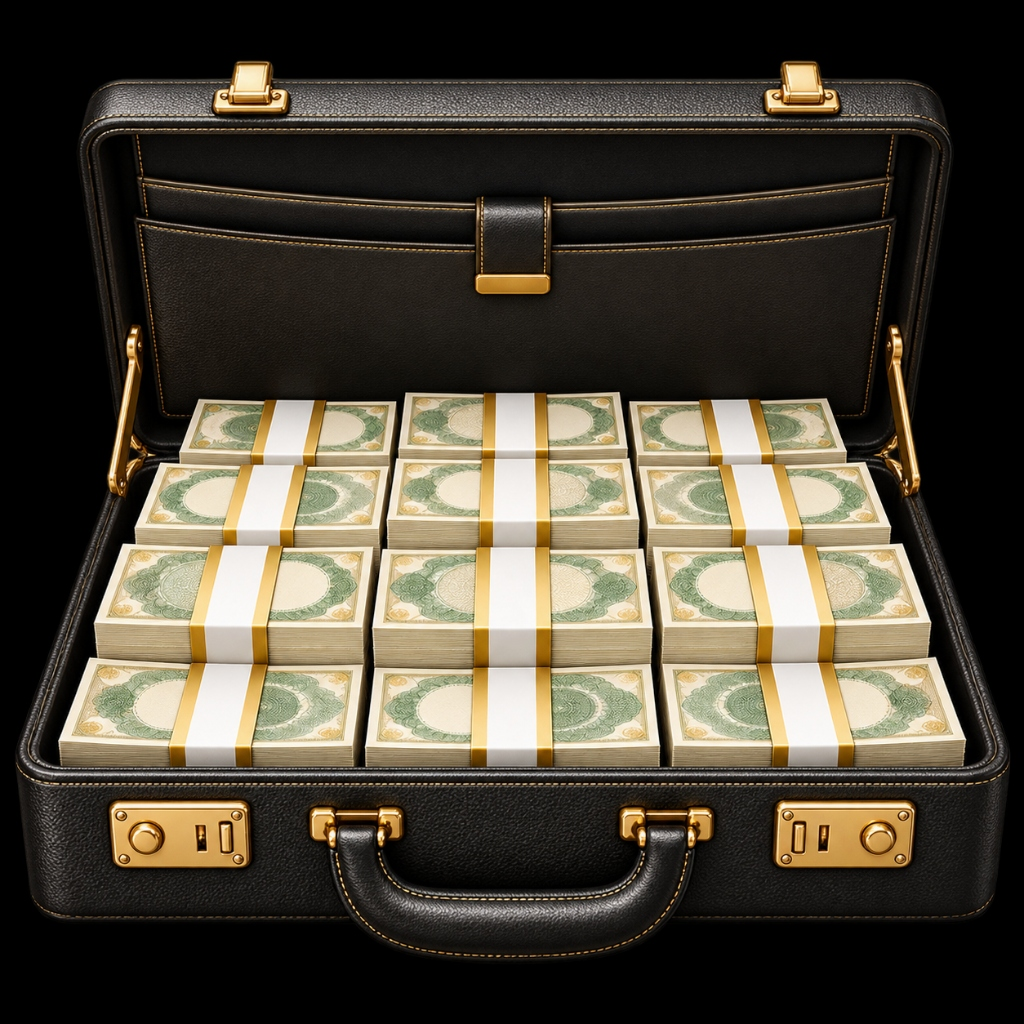
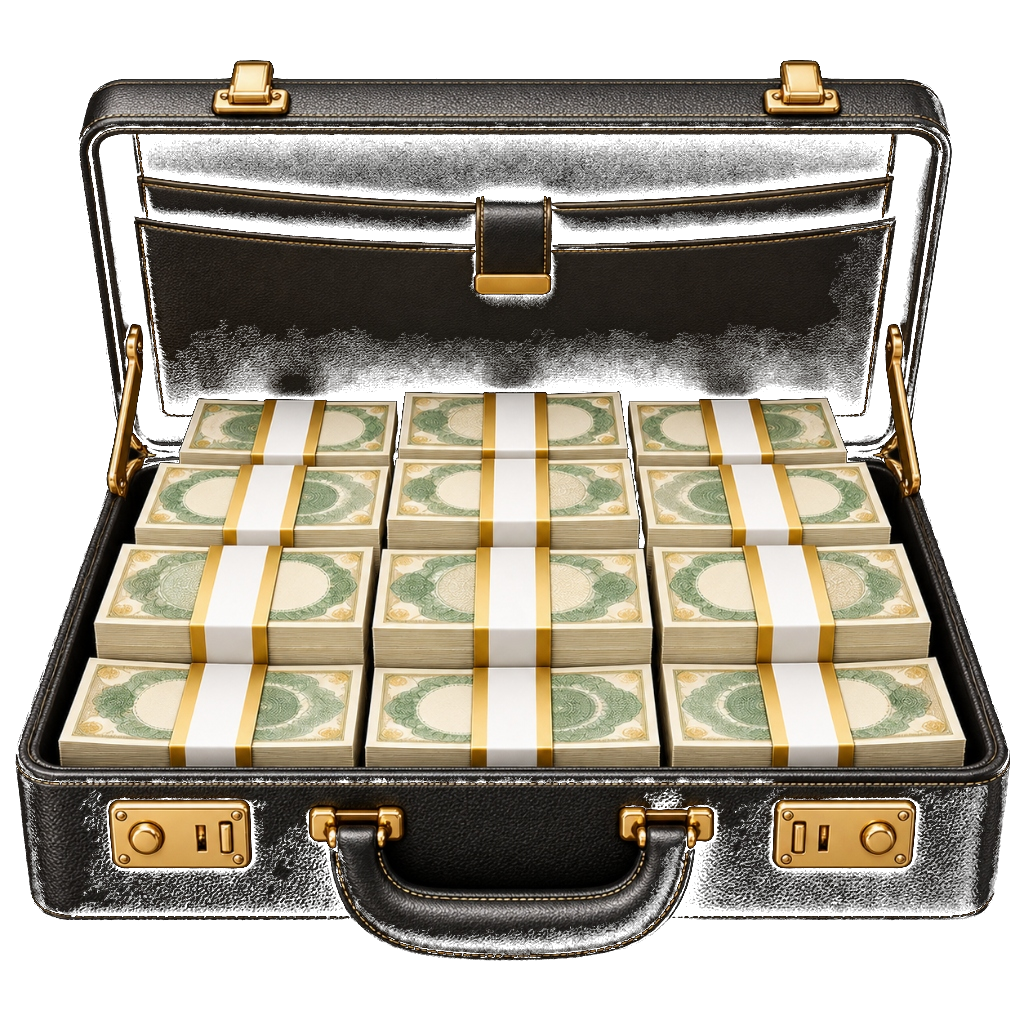
fix(spray-options): eliminate black background from spray cash asset PNGs and render transparent floating 3D items

diff --git a/lib/view/special_features/spray_cash/screens/spray_options_screen.dart b/lib/view/special_features/spray_cash/screens/spray_options_screen.dart
@@ -383,11 +383,15 @@ class _SprayOptionCard extends StatelessWidget {
 
   @override
   Widget build(BuildContext context) {
-    final cardBg = isDark ? const Color(0xFF221D17) : Colors.white;
+    final cardBg = isSelected
+        ? const Color(0xFFB57510).withValues(alpha: isDark ? 0.16 : 0.08)
+        : (isDark
+            ? Colors.white.withValues(alpha: 0.035)
+            : Colors.white);
     final borderColor = isSelected
         ? const Color(0xFFB57510)
         : (isDark
-            ? Colors.white.withValues(alpha: 0.07)
+            ? Colors.white.withValues(alpha: 0.08)
             : const Color(0xFFE8E0D2));
     final catColor = _categoryBadgeColor(item.category);
 
@@ -406,9 +410,9 @@ class _SprayOptionCard extends StatelessWidget {
           boxShadow: [
             BoxShadow(
               color: isSelected
-                  ? const Color(0xFFB57510).withValues(alpha: 0.3)
-                  : Colors.black.withValues(alpha: isDark ? 0.3 : 0.04),
-              blurRadius: isSelected ? 12 : 6,
+                  ? const Color(0xFFB57510).withValues(alpha: 0.25)
+                  : Colors.black.withValues(alpha: isDark ? 0.2 : 0.03),
+              blurRadius: isSelected ? 14 : 6,
               offset: const Offset(0, 3),
             ),
           ],
@@ -454,15 +458,17 @@ class _SprayOptionCard extends StatelessWidget {
               ],
             ),
 
+            // Floating 3D Cash Asset with generous size and transparent background
             Expanded(
               child: Center(
                 child: Padding(
                   padding: const EdgeInsets.symmetric(vertical: 4),
                   child: Image.asset(
                     item.image,
-                    height: 88,
-                    width: 88,
+                    height: 94,
+                    width: 94,
                     fit: BoxFit.contain,
+                    filterQuality: FilterQuality.high,
                     errorBuilder: (context, error, stackTrace) => const Icon(
                       Icons.payments_rounded,
                       size: 50,

diff --git a/lib/view/special_features/spray_cash/widgets/spray_selection_sheet.dart b/lib/view/special_features/spray_cash/widgets/spray_selection_sheet.dart
@@ -176,12 +176,16 @@ class _SprayItemCard extends StatelessWidget {
 
   @override
   Widget build(BuildContext context) {
-    final cardBg = isDark
-        ? const Color(0xFF231E18)
-        : const Color(0xFFF3F4F6);
+    final cardBg = isSelected
+        ? const Color(0xFFC87D0E).withValues(alpha: isDark ? 0.16 : 0.08)
+        : (isDark
+            ? Colors.white.withValues(alpha: 0.035)
+            : const Color(0xFFF9F5EC));
     final borderColor = isSelected
         ? const Color(0xFFC87D0E)
-        : Colors.transparent;
+        : (isDark
+            ? Colors.white.withValues(alpha: 0.08)
+            : const Color(0xFFE8E0D2));
 
     return GestureDetector(
       onTap: onTap,
@@ -191,7 +195,7 @@ class _SprayItemCard extends StatelessWidget {
         decoration: BoxDecoration(
           color: cardBg,
           borderRadius: BorderRadius.circular(20),
-          border: Border.all(color: borderColor, width: 2),
+          border: Border.all(color: borderColor, width: isSelected ? 2 : 1),
         ),
         child: Column(
           mainAxisAlignment: MainAxisAlignment.center,
@@ -201,6 +205,7 @@ class _SprayItemCard extends StatelessWidget {
                 child: Image.asset(
                   item.image,
                   fit: BoxFit.contain,
+                  filterQuality: FilterQuality.high,
                   errorBuilder: (context, error, stackTrace) =>
                       const Icon(Icons.wallet, size: 40, color: Color(0xFFC87D0E)),
                 ),
